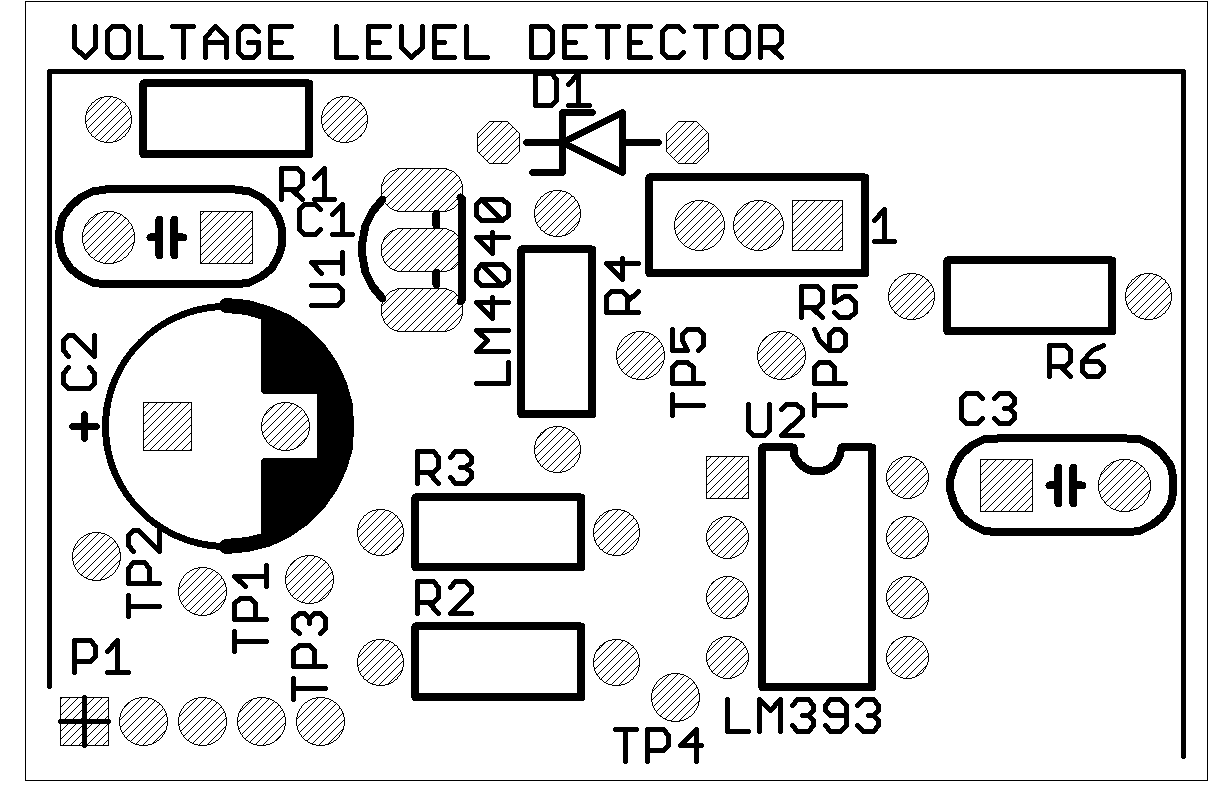
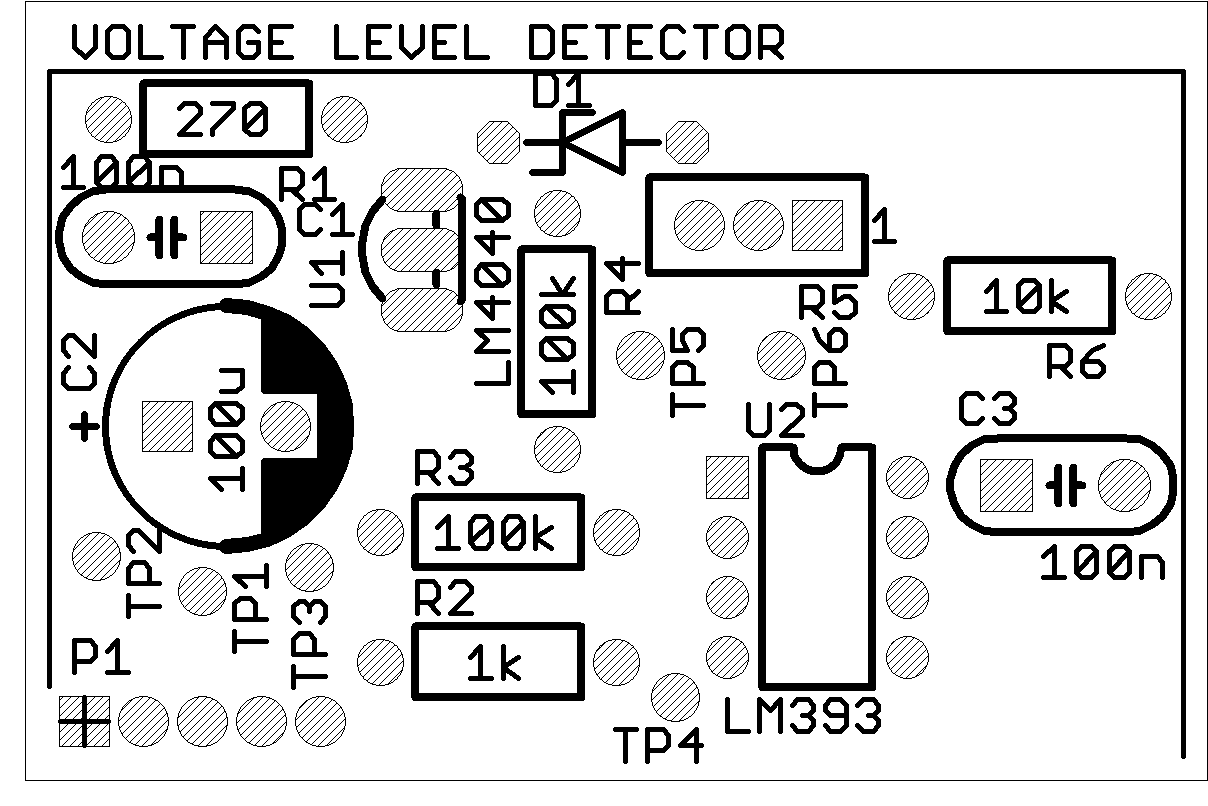
Added part values and generated md file

diff --git a/md/08H-03_A1-01_sch.md b/md/08H-03_A1-01_sch.md
@@ -1,0 +1,95 @@
+# Schematic Export (Markdown)
+
+**ULP Revision Date:** 20250907  
+**Statement:** This document is intended for use in AI training. 
+
+# Circuit Identification
+
+| Field            | Value |
+| ---------------- | ----- |
+| Part Number      | 08H-03 |
+| Revision         | A1-01 |
+| Title            | VOLTAGE LEVEL DETECTOR |
+| PCB Dimensions   | 50 mm x 33 mm |
+| Pieces per Panel | 6 |
+
+# Netlist
+
+| Net | Part | Pad | Pin | Sheet |
+|-----|------|-----|-----|-------|
+| GND | P1 | 1 | GND (1) | 1 |
+| GND | C2 | 2 | 2 | 1 |
+| GND | C3 | 2 | 2 | 1 |
+| GND | TP2 | 1 | 1 | 1 |
+| GND | R3 | 1 | 1 | 1 |
+| GND | U2 | V- | V- | 1 |
+| GND | U2 | -IN | -IN | 1 |
+| GND | U2 | +IN | +IN | 1 |
+| GND | D1 | A | A | 1 |
+| GND | U1 | 1 | 1 | 1 |
+| GND | C1 | 2 | 2 | 1 |
+| INPUT | R2 | 1 | 1 | 1 |
+| INPUT | P1 | 4 | IN (4) | 1 |
+| INPUT | TP3 | 1 | 1 | 1 |
+| INPUT_ATTENUATED | R3 | 2 | 2 | 1 |
+| INPUT_ATTENUATED | R2 | 2 | 2 | 1 |
+| INPUT_ATTENUATED | R4 | 2 | 2 | 1 |
+| INPUT_ATTENUATED | U2 | +IN | +IN | 1 |
+| INPUT_ATTENUATED | TP4 | 1 | 1 | 1 |
+| N$10 | R4 | 1 | 1 | 1 |
+| N$10 | R5 | 3 | 3 | 1 |
+| OUTPUT | R6 | 2 | 2 | 1 |
+| OUTPUT | P1 | 5 | OUT (5) | 1 |
+| OUTPUT | R5 | 1 | 1 | 1 |
+| OUTPUT | R5 | 2 | 2 | 1 |
+| OUTPUT | U2 | OUT | OUT | 1 |
+| OUTPUT | TP6 | 1 | 1 | 1 |
+| REF | D1 | C | C | 1 |
+| REF | R1 | 1 | 1 | 1 |
+| REF | U2 | -IN | -IN | 1 |
+| REF | TP5 | 1 | 1 | 1 |
+| REF | U1 | 1 | 1 | 1 |
+| REF | U1 | 1 | 1 | 1 |
+| REF | C1 | 1 | 1 | 1 |
+| V+ | P1 | 2 | V+ (2) | 1 |
+| V+ | C2 | 1 | 1 | 1 |
+| V+ | C3 | 1 | 1 | 1 |
+| V+ | TP1 | 1 | 1 | 1 |
+| V+ | R1 | 2 | 2 | 1 |
+| V+ | R6 | 1 | 1 | 1 |
+| V+ | U2 | V+ | V+ | 1 |
+
+# Partlist
+
+| REF DES | PART TYPE | VALUE / DESCRIPTION |
+|---------|-----------|---------------------|
+| C1 | Capacitor | 100n |
+| C2 | Capacitor | 100u |
+| C3 | Capacitor | 100n |
+| D1 | Diode |  |
+| P1 | Connector (plug) |  |
+| R1 | Resistor | 270 |
+| R2 | Resistor | 1k |
+| R3 | Resistor | 100k |
+| R4 | Resistor | 100k |
+| R5 | Resistor | 500k |
+| R6 | Resistor | 10k |
+| TP1 | Test point | V+ |
+| TP2 | Test point | GND |
+| TP3 | Test point | INPUT |
+| TP4 | Test point | INPUT_ATTENUATED |
+| TP5 | Test point | REF |
+| TP6 | Test point | OUTPUT |
+| U1 | Integrated circuit / Opto | LM4040 |
+| U2 | Integrated circuit / Opto | LM393 |
+
+# Pinout Description Table, P1  
+
+| Pin | Label | Notes |
+|-----|-------|-------|
+| 1 | GND |  |
+| 2 | V+ |  |
+| 3 | NC |  |
+| 4 | IN |  |
+| 5 | OUT |  |
+
